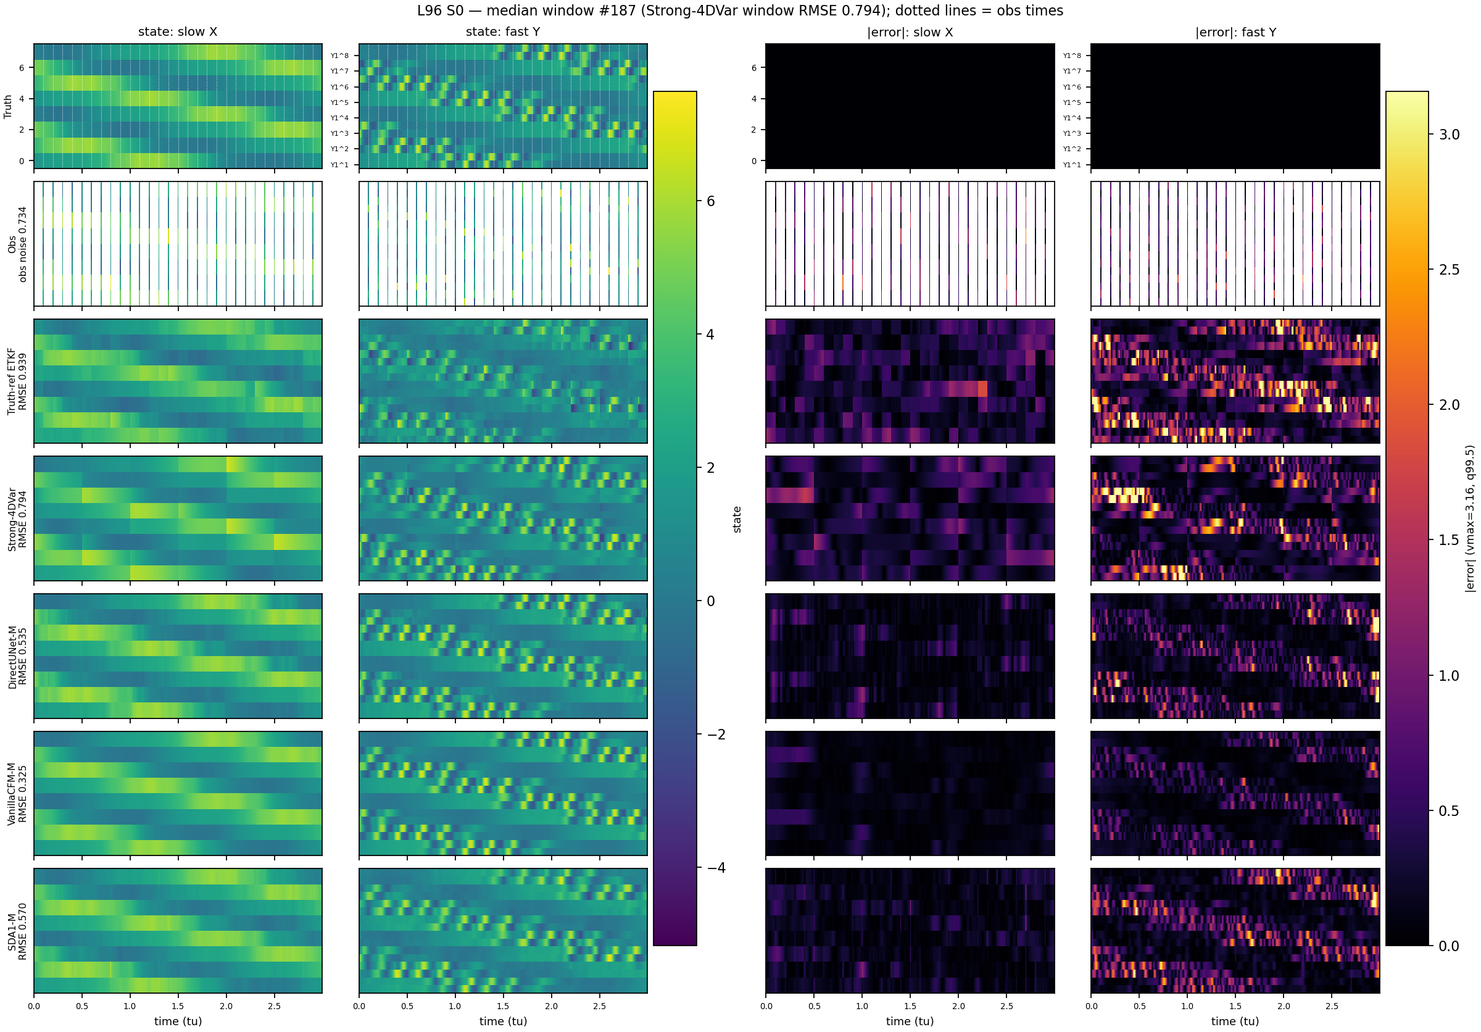
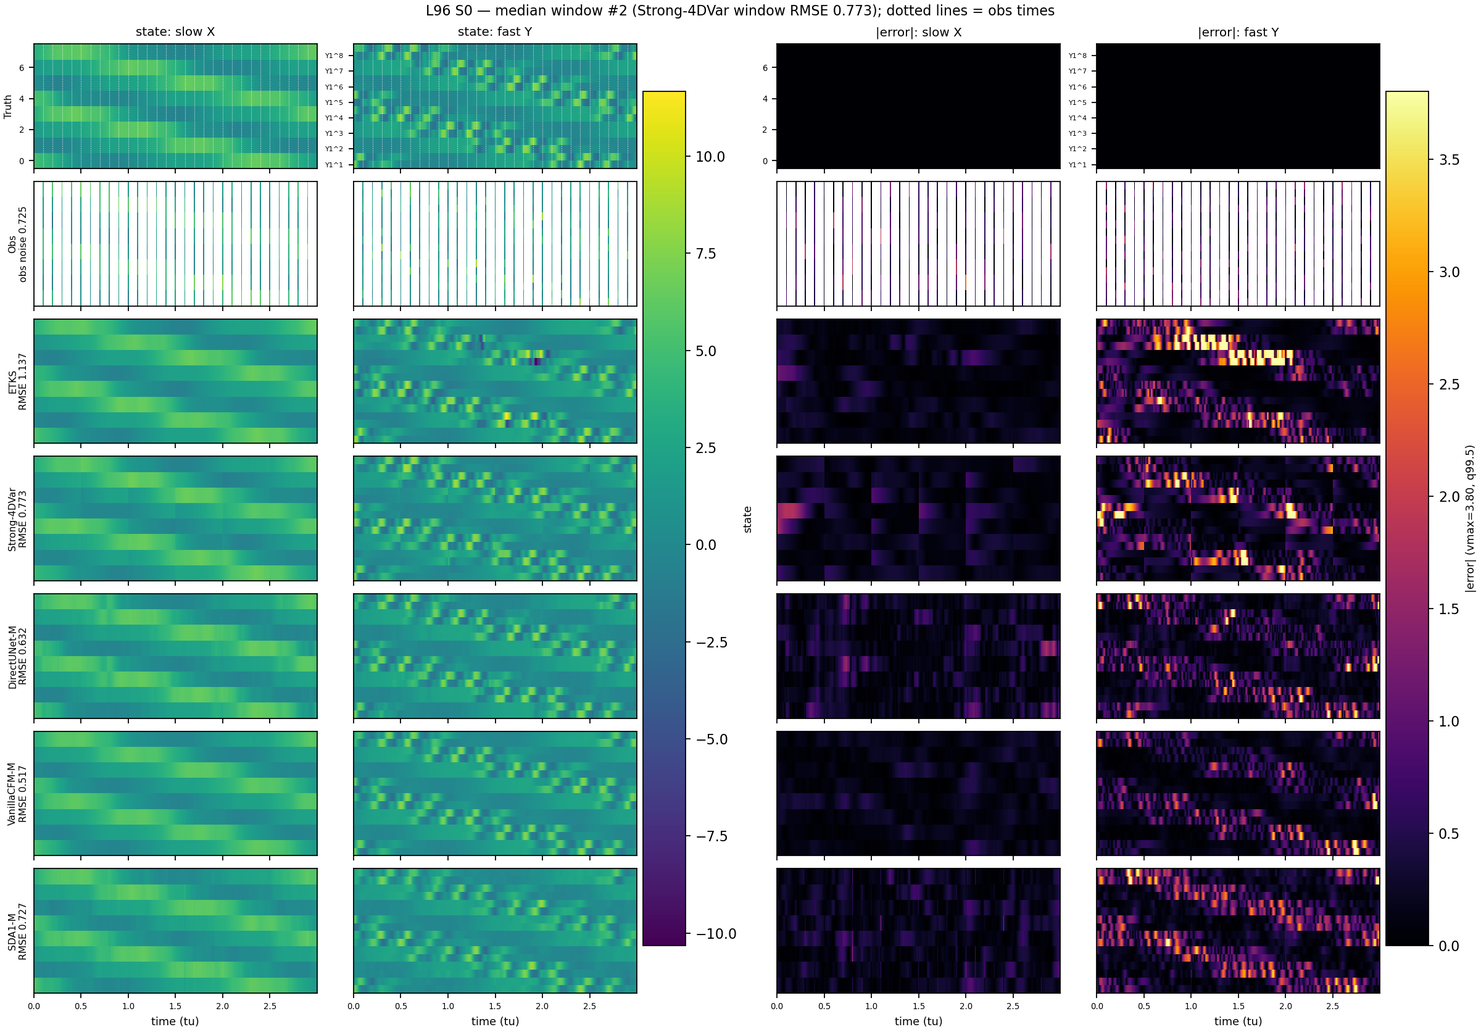
feat(l96): P1 report DA section at the current benchmark rows (+ ETKS)
Section 1 of p1_l96_benchmark.md now reads the current benchmark DA runs
(fixed ETKF, retuned inflation, DA fast weights, ETKS) from the bundle
directory here/da_current_2026-09-29/, with analysis-ensemble CRPS for the
ensemble rows. Learned rows unchanged.

diff --git a/reports/l96/generate_p1_l96_benchmark.py b/reports/l96/generate_p1_l96_benchmark.py
@@ -51,11 +51,17 @@ import _inputs  # noqa: E402
 HERE = _inputs.root("p1_benchmark", "here")
 DA_BASES = (HERE, _inputs.shared())
 
-DA_TRAJ_CANDIDATES = [
-    "l96_baselines_trajectories_dws500_s0c_inf2.0_etkf_inf2.0_obsj2_int100_fw.npz",
-    "l96_baselines_trajectories_dws500_s0c_s1cfix_inf2.0_etkf_inf2.0_obsj2_int100_fw.npz",
-]
-DA_METHODS = ["ETKF", "EnKF", "Strong-4DVar"]
+DA_CURRENT = HERE / "da_current_2026-09-29"
+_DA_NEW = "l96_baselines_trajectories_dws500_s0c_crps_infs0-1.2_s1-3.0_etkf_infs0-1.15_s1-2.5_obsj2_int100_fw_dafw.npz"
+DA_SOURCES = {
+    "ETKF": (_DA_NEW, "ETKF", "λ 1.15 / 2.5"),
+    "EnKF": (_DA_NEW, "EnKF", "λ 1.2 / 3.0"),
+    "ETKS": ("l96_baselines_trajectories_dws500_s0c_test_etks-correct-Lfull-infs0-1.15_s1-2.5_infs0-1.2_s1-3.0"
+             "_etkf_infs0-1.15_s1-2.5_obsj2_int100_fw_dafw.npz", "ETKS", "λ 1.15 / 2.5"),
+    "Strong-4DVar": ("l96_baselines_trajectories_dws500_s0c_inf2.0_etkf_inf2.0_obsj2_int100_fw_dafw.npz",
+                     "Strong_4DVar", "—"),
+}
+DA_METHODS = list(DA_SOURCES)
 CASES = ("s0", "s1")
 
 
@@ -135,28 +141,25 @@ def deterministic(path: Path, group: str = "all_obs"):
 
 
 def da_rows(truth, group):
-    """DA baselines from the cached trajectory archive, or None if absent.
+    """DA baselines from the current benchmark runs (``DA_SOURCES``), or None if absent.
 
-    EnKF/ETKF additionally store `*_ensemble_variance`, so a spread is available
-    for them; Strong-4DVar is deterministic and gets an em-dash. No members are
-    stored for any of them, so a proper ensemble CRPS cannot be formed here --
-    the MAE column is the point-forecast proxy and is NOT comparable to the
-    generative families' ensemble CRPS.
+    The ensemble schemes store their per-time ensemble variance and the
+    per-window analysis-ensemble CRPS, so they get spread and CRPS; Strong-4DVar
+    is deterministic and gets its MAE (the CRPS of a point forecast) and an
+    em-dash for spread.
     """
-    path = next((base / c for base in DA_BASES
-                 for c in DA_TRAJ_CANDIDATES if (base / c).exists()), None)
-    if path is None:
+    files = {fn for fn, _, _ in DA_SOURCES.values()}
+    if not all((DA_CURRENT / fn).exists() for fn in files):
         return None, None
-    z = np.load(path)
     idx = make_obs_j_indices()
+    sel = lambda a: a[..., idx] if a.shape[-1] > len(idx) else a  # noqa: E731
+    loaded = {fn: np.load(DA_CURRENT / fn) for fn in files}
     rows = []
-    for method in DA_METHODS:
-        key = method.replace("-", "_")
+    for method, (fn, key, params) in DA_SOURCES.items():
+        z = loaded[fn]
         m = {}
         for case in CASES:
-            traj = z[f"{case}_{key}_trajectories"].astype(np.float64)
-            if traj.shape[-1] > len(idx):
-                traj = traj[..., idx]
+            traj = sel(z[f"{case}_{key}_trajectories"].astype(np.float64))
             t = truth[case]
             m[case] = dict(
                 rmse=_groups_from_per_window(np.sqrt(((traj - t) ** 2).mean(axis=1)))[group],
@@ -164,13 +167,14 @@ def da_rows(truth, group):
             )
             vkey = f"{case}_{key}_ensemble_variance"
             if vkey in z.files:
-                v = z[vkey].astype(np.float64)
-                if v.shape[-1] > len(idx):
-                    v = v[..., idx]
+                v = sel(z[vkey].astype(np.float64))
                 m[case]["spread"] = _groups_from_per_window(
                     np.sqrt(np.clip(v, 0, None)).mean(axis=1))[group]
-        rows.append(dict(label=method, params="—", flag="", m=m))
-    return rows, path.name
+            ckey = f"{case}_{key}_crps"
+            if ckey in z.files:
+                m[case]["crps"] = _groups_from_per_window(sel(z[ckey].astype(np.float64)))[group]
+        rows.append(dict(label=method, params=params, flag="", m=m))
+    return rows, sorted(files)
 
 
 def ms(a: np.ndarray) -> str:
@@ -190,7 +194,7 @@ def best_idx(rows, key):
 # "split on the first underscore" fallback -- so underscore-free display names
 # pass through unchanged, while raw experiment dir names would render as "A1".
 FIGURE_SCHEMES = [
-    ("Truth-ref ETKF", ("da", "ETKF")),
+    ("ETKS", ("da", "ETKS")),
     ("Strong-4DVar", ("da", "Strong-4DVar")),
     ("DirectUNet-M", ("det", "P1_directunet_monaiM_noaug_l96", "ens1_no1")),
     ("VanillaCFM-M", ("gen", "A1_vanillacfm_monaiM_l96", "ens30_no20")),
@@ -239,15 +243,14 @@ def figure_trajectories(case, truth_shape):
     (worse) object than the table reports.
     """
     est = {}
-    da_path = next((base / c for base in DA_BASES
-                    for c in DA_TRAJ_CANDIDATES if (base / c).exists()), None)
     idx = make_obs_j_indices()
     for label, spec in FIGURE_SCHEMES:
         if spec[0] == "da":
-            if da_path is None:
+            fn, key_method, _ = DA_SOURCES[spec[1]]
+            if not (DA_CURRENT / fn).exists():
                 continue
-            z = np.load(da_path)
-            key = f"{case}_{spec[1].replace('-', '_')}_trajectories"
+            z = np.load(DA_CURRENT / fn)
+            key = f"{case}_{key_method}_trajectories"
             if key not in z.files:
                 continue
             traj = z[key].astype(np.float64)
@@ -332,14 +335,17 @@ def main():
       "so the families are budget-matched *within this report*. The benchmark default has since "
       "moved DirectUNet and the CFMs to 1200 epochs, but **the SDA priors (SDA1/SDA2/SDA3-fix) have "
       "not been retrained at 1200 epochs**: the SDA rows of the extended report, and the prior of "
-      "every DirectUNet -> SDA hybrid, are still these 400-epoch checkpoints. Two other parts of this report "
-      "are out of date: the DA baselines (section 1) predate the DA-side `fast_weights` fix and the "
-      "per-case inflation (current: ETKF S0 0.687, S1/S0 2.0-2.2x), and the SDA rows use guidance "
-      "weight 20 (validation-tuned: 25).\n")
+      "every DirectUNet -> SDA hybrid, are still these 400-epoch checkpoints. The SDA rows use guidance "
+      "weight 20 (validation-tuned: 25). **The DA baselines (section 1) are the current benchmark rows "
+      "(updated 2026-09-29)**, on the same 200 regular-grid windows as every learned row: DA fast weights, "
+      "the fixed ETKF square root (#291), the per-method inflation retuned on validation windows (#295: "
+      "ETKF 1.15 / 2.5, EnKF 1.2 / 3.0), and the ETKS smoother (#299). They replace the P1-protocol DA "
+      "rows (inflation 2.0, no DA fast weights, so S0 was not a perfect model).\n")
     A("## Protocol\n")
     A("| family | protocol | columns |\n|---|---|---|")
-    A("| DA baselines | per-window assimilation over dws=500 | RMSE/MAE; spread where an "
-      "ensemble variance is cached (EnKF/ETKF). No members are stored, so no ensemble CRPS |")
+    A("| DA baselines | per-window assimilation (dws=500, DA fast weights); ETKS = the ETKF plus a "
+      "full-window smoother | RMSE; analysis-ensemble CRPS and spread for ETKF/EnKF/ETKS; MAE (the CRPS "
+      "of a point forecast) for Strong-4DVar |")
     A("| Deterministic | single forward pass | RMSE/MAE; `var ratio` = predicted/true variance "
       "(1.0 calibrated, ~0.35 collapsed) |")
     A("| Flow matching | `ens30_no20` (30 members, 20 early-fine steps; `ens30_no10` before 2026-09-24) | ensemble-mean RMSE; proper "
@@ -358,7 +364,8 @@ def main():
             A("|---|---|---|---|---|---|---|---|---|")
         else:
             extra = "var ratio" if mode == "det" else "sp/RMSE (S0)"
-            A(f"| scheme | params | S0 RMSE | S1 RMSE | S1/S0 | S0 MAE | S1 MAE | {extra} | note |")
+            err = "CRPS (MAE for 4D-Var)" if mode == "da" else "MAE"
+            A(f"| scheme | params | S0 RMSE | S1 RMSE | S1/S0 | S0 {err} | S1 {err} | {extra} | note |")
             A("|---|---|---|---|---|---|---|---|---|")
         avail = [r for r in rows if r["m"] and not r["flag"]]
         best = min((r["m"]["s0"]["rmse"].mean() for r in avail), default=None)
@@ -377,6 +384,10 @@ def main():
             if mode == "gen":
                 c0, c1 = ms(r["m"]["s0"]["crps"]), ms(r["m"]["s1"]["crps"])
                 sp = f"{r['m']['s0']['spread'].mean() / r['m']['s0']['rmse'].mean():.3f}"
+            elif mode == "da" and "crps" in r["m"]["s0"]:
+                c0, c1 = f"{r['m']['s0']['crps'].mean():.4f}", f"{r['m']['s1']['crps'].mean():.4f}"
+                sp = (f"{r['m']['s0']['spread'].mean() / r['m']['s0']['rmse'].mean():.3f}"
+                      if "spread" in r["m"]["s0"] else "—")
             else:
                 c0 = f"{r['m']['s0']['mae'].mean():.4f}"
                 c1 = f"{r['m']['s1']['mae'].mean():.4f}"
@@ -390,8 +401,9 @@ def main():
 
     if da:
         emit("1. DA baselines", da, "da")
-        A(f"\nSource: `{da_file}`. S0 trajectories are stored in the full 40D state and indexed "
-          "to the 24D observed subspace; S1 is already reduced.\n")
+        A("\nSources (report bundle `da_current_2026-09-29/`): " + ", ".join(f"`{f}`" for f in da_file)
+          + ". S0 trajectories are stored in the full 40D state and indexed to the 24D observed "
+          "subspace; S1 is already reduced. Rows and protocol: `l96_benchmark_extended.md`.\n")
     emit("2. Deterministic point estimators", out["det"], "det")
     if tau0:
         A("\n### The flows' tau=0 mean components, as deterministic estimators (S0)\n")
@@ -414,9 +426,11 @@ def main():
           + f" — flow matching is {100 * (bests['det'] - bests['fm']) / bests['det']:.0f}% better "
           f"than the deterministic baseline and {100 * (bests['sda'] - bests['fm']) / bests['sda']:.0f}% "
           "better than SDA, at matched tier, parameter count, schedule and data.\n")
+    da_ratios = [_ratio(r["m"], "rmse") for r in out.get("da", []) if r["m"]]
+    da_span = f"{min(da_ratios):.1f}-{max(da_ratios):.1f}x" if da_ratios else "~2x"
     A("- **The S1/S0 ratio separates the two worlds.** Every learned scheme is essentially "
       "flat under model error (ratio ~1.00) because it never uses a forward model; the DA "
-      "baselines degrade by ~1.7x, since their forward operator carries the bias. That makes "
+      f"baselines degrade by {da_span}, since their forward operator carries the bias. That makes "
       "the S1 column the strongest argument for the learned schemes, and it is a structural "
       "difference rather than a tuning one.")
     A("- **M is the right tier for every learned family.** S+ -> M is a large gain everywhere; "
@@ -437,8 +451,8 @@ def main():
     A("- DA baselines receive the same per-window parameters as truth generation (S0) or their "
       "biased `*_da` counterparts (S1); the learned schemes see observations only. This is what "
       "makes the comparison apples-to-apples, and also why their S1 behaviour differs so much.")
-    A("- No ensemble members are cached for the DA baselines, so their MAE column is a point "
-      "proxy and is not comparable to the generative families' ensemble CRPS.")
+    A("- DA CRPS is the per-window analysis-ensemble CRPS stored by the runs (30 members), comparable "
+      "to the generative families' ensemble CRPS; Strong-4DVar's column is its MAE.")
     A("- SDA is the only learned family with a tuned inference hyper-parameter (`gw`).")
     A("- SDA budget: 400 epochs here, like every row. Do not set these SDA rows against 1200-epoch "
       "DirectUNet/CFM results: the SDA priors have not been retrained at the 1200-epoch default.")

diff --git a/reports/l96/outputs/p1_l96_benchmark.md b/reports/l96/outputs/p1_l96_benchmark.md
@@ -4,13 +4,13 @@ Two-scale L96, `obs_interval=100`, `obs_j=2` (24D observed space), 200 shared ca
 
 **One recipe for every learned row**: monai backbone, `data.normalize: true`, cosine annealing, 400 epochs, `batch_size: 16`, lr 1e-3, grad clip 10.0, **no obs-density augmentation**. Deviations are called out per row. Unrolled/4DVarNet schemes are out of P1 scope.
 
-**Status (2026-09-27): superseded as the L96 benchmark by `l96_benchmark_extended.md`; kept as the P1-protocol record.** Every learned row here, SDA included, is trained for 400 epochs, so the families are budget-matched *within this report*. The benchmark default has since moved DirectUNet and the CFMs to 1200 epochs, but **the SDA priors (SDA1/SDA2/SDA3-fix) have not been retrained at 1200 epochs**: the SDA rows of the extended report, and the prior of every DirectUNet -> SDA hybrid, are still these 400-epoch checkpoints. Two other parts of this report are out of date: the DA baselines (section 1) predate the DA-side `fast_weights` fix and the per-case inflation (current: ETKF S0 0.687, S1/S0 2.0-2.2x), and the SDA rows use guidance weight 20 (validation-tuned: 25).
+**Status (2026-09-27): superseded as the L96 benchmark by `l96_benchmark_extended.md`; kept as the P1-protocol record.** Every learned row here, SDA included, is trained for 400 epochs, so the families are budget-matched *within this report*. The benchmark default has since moved DirectUNet and the CFMs to 1200 epochs, but **the SDA priors (SDA1/SDA2/SDA3-fix) have not been retrained at 1200 epochs**: the SDA rows of the extended report, and the prior of every DirectUNet -> SDA hybrid, are still these 400-epoch checkpoints. The SDA rows use guidance weight 20 (validation-tuned: 25). **The DA baselines (section 1) are the current benchmark rows (updated 2026-09-29)**, on the same 200 regular-grid windows as every learned row: DA fast weights, the fixed ETKF square root (#291), the per-method inflation retuned on validation windows (#295: ETKF 1.15 / 2.5, EnKF 1.2 / 3.0), and the ETKS smoother (#299). They replace the P1-protocol DA rows (inflation 2.0, no DA fast weights, so S0 was not a perfect model).
 
 ## Protocol
 
 | family | protocol | columns |
 |---|---|---|
-| DA baselines | per-window assimilation over dws=500 | RMSE/MAE; spread where an ensemble variance is cached (EnKF/ETKF). No members are stored, so no ensemble CRPS |
+| DA baselines | per-window assimilation (dws=500, DA fast weights); ETKS = the ETKF plus a full-window smoother | RMSE; analysis-ensemble CRPS and spread for ETKF/EnKF/ETKS; MAE (the CRPS of a point forecast) for Strong-4DVar |
 | Deterministic | single forward pass | RMSE/MAE; `var ratio` = predicted/true variance (1.0 calibrated, ~0.35 collapsed) |
 | Flow matching | `ens30_no20` (30 members, 20 early-fine steps; `ens30_no10` before 2026-09-24) | ensemble-mean RMSE; proper ensemble CRPS; `spread/RMSE` (1.0 calibrated) |
 | SDA | guided `ens30`, `gw=20`, `r_var=0.5` | as above. **Must** use `eval_sda_l96.py`: SDA1 is an unconditional prior and the unguided sampler returns climatological spread |
@@ -21,13 +21,14 @@ A single draw from a generative model is a strictly worse estimator than its ens
 
 ## 1. DA baselines
 
-| scheme | params | S0 RMSE | S1 RMSE | S1/S0 | S0 MAE | S1 MAE | sp/RMSE (S0) | note |
+| scheme | params | S0 RMSE | S1 RMSE | S1/S0 | S0 CRPS (MAE for 4D-Var) | S1 CRPS (MAE for 4D-Var) | sp/RMSE (S0) | note |
 |---|---|---|---|---|---|---|---|---|
-| ETKF | — | 0.8662 ± 0.1455 | 1.4748 ± 0.2415 | 1.703 | 0.6124 | 1.0322 | 1.127 |  |
-| EnKF | — | 0.8943 ± 0.1350 | 1.5123 ± 0.2487 | 1.691 | 0.6369 | 1.0842 | 1.089 |  |
-| **Strong-4DVar** | — | **0.7383 ± 0.1915** | 1.4369 ± 0.2331 | 1.946 | 0.4850 | 0.9892 | — |  |
+| ETKF | λ 1.15 / 2.5 | 0.6102 ± 0.1480 | 1.4093 ± 0.2300 | 2.310 | 0.2704 | 0.7580 | 0.607 |  |
+| EnKF | λ 1.2 / 3.0 | 0.6414 ± 0.1434 | 1.4159 ± 0.2287 | 2.207 | 0.2866 | 0.7634 | 0.647 |  |
+| **ETKS** | λ 1.15 / 2.5 | **0.4969 ± 0.1644** | 1.3380 ± 0.2237 | 2.692 | 0.2382 | 0.7706 | 0.412 |  |
+| Strong-4DVar | — | 0.7028 ± 0.1991 | 1.4362 ± 0.2325 | 2.044 | 0.4464 | 0.9879 | — |  |
 
-Source: `l96_baselines_trajectories_dws500_s0c_inf2.0_etkf_inf2.0_obsj2_int100_fw.npz`. S0 trajectories are stored in the full 40D state and indexed to the 24D observed subspace; S1 is already reduced.
+Sources (report bundle `da_current_2026-09-29/`): `l96_baselines_trajectories_dws500_s0c_crps_infs0-1.2_s1-3.0_etkf_infs0-1.15_s1-2.5_obsj2_int100_fw_dafw.npz`, `l96_baselines_trajectories_dws500_s0c_inf2.0_etkf_inf2.0_obsj2_int100_fw_dafw.npz`, `l96_baselines_trajectories_dws500_s0c_test_etks-correct-Lfull-infs0-1.15_s1-2.5_infs0-1.2_s1-3.0_etkf_infs0-1.15_s1-2.5_obsj2_int100_fw_dafw.npz`. S0 trajectories are stored in the full 40D state and indexed to the 24D observed subspace; S1 is already reduced. Rows and protocol: `l96_benchmark_extended.md`.
 
 
 ## 2. Deterministic point estimators
@@ -77,9 +78,9 @@ Source: `l96_baselines_trajectories_dws500_s0c_inf2.0_etkf_inf2.0_obsj2_int100_f
 
 ## Cross-family reading
 
-Best S0 of each family: **flow matching 0.3412**, deterministic 0.4699, SDA 0.5063, DA baselines 0.7383 — flow matching is 27% better than the deterministic baseline and 33% better than SDA, at matched tier, parameter count, schedule and data.
+Best S0 of each family: **flow matching 0.3412**, deterministic 0.4699, SDA 0.5063, DA baselines 0.4969 — flow matching is 27% better than the deterministic baseline and 33% better than SDA, at matched tier, parameter count, schedule and data.
 
-- **The S1/S0 ratio separates the two worlds.** Every learned scheme is essentially flat under model error (ratio ~1.00) because it never uses a forward model; the DA baselines degrade by ~1.7x, since their forward operator carries the bias. That makes the S1 column the strongest argument for the learned schemes, and it is a structural difference rather than a tuning one.
+- **The S1/S0 ratio separates the two worlds.** Every learned scheme is essentially flat under model error (ratio ~1.00) because it never uses a forward model; the DA baselines degrade by 2.0-2.7x, since their forward operator carries the bias. That makes the S1 column the strongest argument for the learned schemes, and it is a structural difference rather than a tuning one.
 - **M is the right tier for every learned family.** S+ -> M is a large gain everywhere; M -> L gains nothing and is actively unreliable (2 of 5 L-tier runs failed to train).
 - **The CFM parameterization is irrelevant.** VanillaCFM (velocity target) and PredictStateCFM (endpoint target) are statistically identical at S+ (paired t = 0.7, p = 0.48) despite a 3x gap in training val_loss — val_loss is not comparable across objectives.
 - **SDA's params conditioning buys nothing here**: SDA2/SDA3 never beat SDA1-M, and with the biased DA params at S1 (fixed 2026-09-25; S1 previously fed them the true params) both lose 1-2%, since both were trained with DA params equal to the true ones. The guidance weight is worth far more (8% from tuning alone); an SDA3 trained on noisy DA params is robust at S1 at the tuned gw 25 (`l96_benchmark_extended.md`) -- at this report's gw 20 its SDA3-fix-M row still loses 1.6%, and on the random observing system it degrades about as much as the unconditional SDA1 (1.5% vs 2.0% at gw 25).
@@ -88,7 +89,7 @@ Best S0 of each family: **flow matching 0.3412**, deterministic 0.4699, SDA 0.50
 ## Caveats
 
 - DA baselines receive the same per-window parameters as truth generation (S0) or their biased `*_da` counterparts (S1); the learned schemes see observations only. This is what makes the comparison apples-to-apples, and also why their S1 behaviour differs so much.
-- No ensemble members are cached for the DA baselines, so their MAE column is a point proxy and is not comparable to the generative families' ensemble CRPS.
+- DA CRPS is the per-window analysis-ensemble CRPS stored by the runs (30 members), comparable to the generative families' ensemble CRPS; Strong-4DVar's column is its MAE.
 - SDA is the only learned family with a tuned inference hyper-parameter (`gw`).
 - SDA budget: 400 epochs here, like every row. Do not set these SDA rows against 1200-epoch DirectUNet/CFM results: the SDA priors have not been retrained at the 1200-epoch default.
 - The two PredictStateCFM-L rows use a non-standard lr, forced by an optimization failure at 1e-3 (val_loss jumped 6x at epoch 10 and never recovered).
@@ -99,18 +100,18 @@ Best S0 of each family: **flow matching 0.3412**, deterministic 0.4699, SDA 0.50
 
 Best / median / worst windows, ranked by Strong-4DVar per-window RMSE (the same convention as the consolidated benchmark, so window choices are comparable across reports). Rows are Truth / Obs / one best scheme per subcategory; columns are the state and |error| maps for the slow X (8D) and fast Y (16D) blocks. Generative rows are plotted as their **ensemble mean** — the estimator their RMSE column scores.
 
-| case | rank | window | 4DVar win-RMSE | Truth-ref ETKF | Strong-4DVar | DirectUNet-M | VanillaCFM-M | SDA1-M |
+| case | rank | window | 4DVar win-RMSE | ETKS | Strong-4DVar | DirectUNet-M | VanillaCFM-M | SDA1-M |
 |---|---|---|---|---|---|---|---|---|
-| S0 | best | 155 | 0.407 | 0.687 | 0.407 | 0.403 | 0.266 | 0.395 |
-| S0 | median | 187 | 0.794 | 0.939 | 0.794 | 0.535 | 0.325 | 0.570 |
-| S0 | worst | 58 | 1.432 | 0.889 | 1.432 | 0.539 | 0.452 | 0.602 |
-| S1 | best | 35 | 0.977 | 0.980 | 0.977 | 0.408 | 0.249 | 0.363 |
-| S1 | median | 198 | 1.482 | 1.507 | 1.482 | 0.500 | 0.320 | 0.499 |
-| S1 | worst | 75 | 1.991 | 2.005 | 1.991 | 0.645 | 0.497 | 0.774 |
+| S0 | best | 146 | 0.352 | 0.437 | 0.352 | 0.391 | 0.277 | 0.405 |
+| S0 | median | 2 | 0.773 | 1.137 | 0.773 | 0.632 | 0.517 | 0.727 |
+| S0 | worst | 56 | 1.497 | 0.724 | 1.497 | 0.651 | 0.580 | 0.629 |
+| S1 | best | 35 | 0.975 | 0.882 | 0.975 | 0.408 | 0.249 | 0.363 |
+| S1 | median | 10 | 1.474 | 1.341 | 1.474 | 0.525 | 0.332 | 0.496 |
+| S1 | worst | 75 | 1.990 | 1.778 | 1.990 | 0.645 | 0.497 | 0.774 |
 
 **Observing system.** `obs_mask` is a single 1-D mask over time shared by every dimension, so slow and fast are observed at exactly the same instants: **30 observed timesteps per window** (`obs_interval=100` over T=3000). What differs between them is spatial, not temporal — all 8 slow X are observed, but only 16 of the 32 fast Y (`obs_j=2` of `J=4`), which is why the fast block is 16 rows.
 
-Each observation is drawn as a 11-column band rather than a single 1/3000 column, which would be ~0.15 px and mostly vanish under rasterization. That is display-only and inflates the Obs row's |error| column (labelled 'obs noise') by ~1.7%; the undistorted values are S0/best 0.7067, S0/median 0.7216, S0/worst 0.7199, S1/best 0.7013, S1/median 0.6845, S1/worst 0.7327.
+Each observation is drawn as a 11-column band rather than a single 1/3000 column, which would be ~0.15 px and mostly vanish under rasterization. That is display-only and inflates the Obs row's |error| column (labelled 'obs noise') by ~1.7%; the undistorted values are S0/best 0.7003, S0/median 0.7113, S0/worst 0.6836, S1/best 0.7013, S1/median 0.7116, S1/worst 0.7327.
 
 ![S0 best](figures/p1_l96_hovm_s0_best.png)
 ![S0 median](figures/p1_l96_hovm_s0_median.png)

diff --git a/CHANGELOG.d/2026-09-29-l96-p1-report-da-refresh.md b/CHANGELOG.d/2026-09-29-l96-p1-report-da-refresh.md
@@ -1,0 +1,6 @@
+## 2026-09-29: P1 L96 report — DA section refreshed to the current benchmark rows (+ ETKS)
+
+**Summary:** `p1_l96_benchmark.md` section 1 now shows the current benchmark DA rows on its 200 regular-grid windows: ETKF (λ 1.15 / 2.5, #291 fix, DA fast weights) 0.610 / 1.409, EnKF (λ 1.2 / 3.0) 0.641 / 1.416, ETKS (#299) 0.497 / 1.338, Strong-4DVar with DA fast weights 0.703 / 1.436 (S0 / S1). They replace the P1-protocol DA rows (inflation 2.0, no DA fast weights; ETKF 0.866, EnKF 0.894, Strong-4DVar 0.738 at S0). Ensemble DA rows now report their analysis-ensemble CRPS. All learned rows are unchanged.
+**Files modified:** `reports/l96/generate_p1_l96_benchmark.py` — per-method DA sources from the bundle directory `here/da_current_2026-09-29/` (three hard-linked run files, recorded in the bundle MANIFEST), ETKS row, CRPS column for ensemble DA, ETKS as the figure's DA row, status / protocol / S1-ratio / caveat text; `reports/l96/outputs/p1_l96_benchmark.{md,json}` and `figures/p1_l96_hovm_*.png` — regenerated (the example windows move because they are ranked by Strong-4DVar per-window RMSE, which changed with the DA fast weights).
+**Rationale:** The report is the P1 paper's fixed-observing-system table; its DA rows were three fixes behind (no DA fast weights, so S0 was not perfect-model; pre-#291 ETKF; untuned inflation).
+**Verification:** diff of the regenerated report — only section 1, the DA-dependent text and the example windows change; `pytest tests/test_reports_index.py tests/test_l96_report_consistency.py tests/test_report_inputs.py tests/test_docs_layout.py -m "not slow"`; `ruff check` on the generator.
